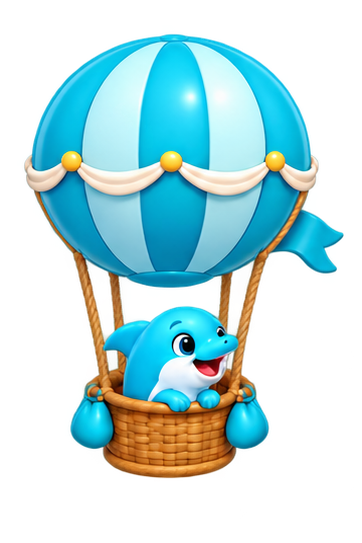
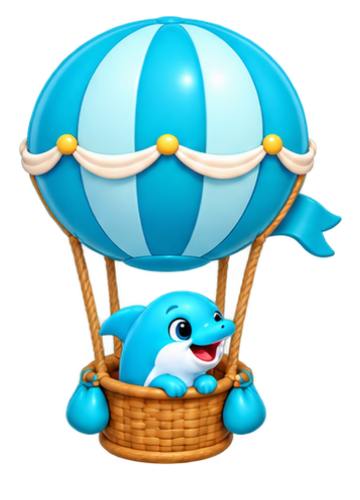
feat(team-competition): can deu 8 khinh khi cau, co khung trai 15%, tang gap doi khung ten va 2.5 lan o bang xep hang

Changed region(s): [[0.0306, 0.03, 0.9472, 0.93], [0.8556, 0.39, 0.9167, 0.42], [0.6722, 0.39, 0.7028, 0.42]]

diff --git a/src/style.css b/src/style.css
@@ -6495,7 +6495,7 @@ input[type="text"], input[type="password"], select, textarea {
     top: clamp(10px, 1.4vh, 18px);
     bottom: clamp(10px, 1.4vh, 18px);
     left: clamp(6px, 0.6vw, 10px);
-    width: clamp(190px, 15.6vw, 245px);
+    width: clamp(160px, 13.2vw, 208px);
     z-index: 10;
     display: flex;
     flex-direction: column;
@@ -6527,17 +6527,18 @@ input[type="text"], input[type="password"], select, textarea {
 #treasure-modal.team-board-fullscreen .team-competition-board--live .team-race-stadium--balloon-festival .team-stadium-title-card {
     flex-shrink: 0;
     display: grid;
-    min-height: clamp(54px, 7vh, 72px);
-    padding: 8px 12px;
+    min-height: clamp(108px, 14vh, 144px);
+    padding: clamp(12px, 1.6vh, 20px) 12px;
     place-items: center;
 }
 #treasure-modal.team-board-fullscreen .team-competition-board--live .team-race-stadium--balloon-festival .team-stadium-title-card h2 {
     margin: 0;
     color: #fff;
-    font-size: clamp(.92rem, 1.2vw, 1.35rem);
-    line-height: 1.15;
+    font-size: clamp(1.15rem, 1.45vw, 1.65rem);
+    font-weight: 900;
+    line-height: 1.25;
     text-align: center;
-    text-shadow: 0 2px 0 #064b85, 0 0 14px rgba(130, 240, 255, .38);
+    text-shadow: 0 2px 0 #064b85, 0 0 16px rgba(130, 240, 255, .45);
     word-break: break-word;
 }
 #treasure-modal.team-board-fullscreen .team-competition-board--live .team-race-stadium--balloon-festival .team-race-clock {
@@ -6571,9 +6572,9 @@ input[type="text"], input[type="password"], select, textarea {
     overflow: hidden;
 }
 #treasure-modal.team-board-fullscreen .team-competition-board--live .team-race-stadium--balloon-festival .team-race-scoreboard p {
-    margin: 0 0 6px;
+    margin: 0 0 8px;
     color: #fff5b8 !important;
-    font-size: clamp(.58rem, .72vw, .78rem) !important;
+    font-size: clamp(.62rem, .78vw, .86rem) !important;
     font-weight: 900;
     letter-spacing: .04em;
     text-align: center;
@@ -6582,51 +6583,68 @@ input[type="text"], input[type="password"], select, textarea {
 #treasure-modal.team-board-fullscreen .team-competition-board--live .team-race-stadium--balloon-festival .team-race-scoreboard ol {
     display: flex;
     flex-direction: column;
-    gap: clamp(3px, .45vh, 6px);
+    gap: clamp(6px, 0.8vh, 10px);
     overflow-y: auto;
     flex: 1;
     min-height: 0;
     margin: 0;
-    padding: 0;
+    padding: 0 4px 0 0;
     list-style: none;
+    scrollbar-width: thin;
+    scrollbar-color: rgba(65, 231, 255, .7) rgba(3, 31, 91, .6);
+}
+#treasure-modal.team-board-fullscreen .team-competition-board--live .team-race-stadium--balloon-festival .team-race-scoreboard ol::-webkit-scrollbar {
+    width: 5px;
+}
+#treasure-modal.team-board-fullscreen .team-competition-board--live .team-race-stadium--balloon-festival .team-race-scoreboard ol::-webkit-scrollbar-track {
+    background: rgba(3, 31, 91, .6);
+    border-radius: 999px;
+}
+#treasure-modal.team-board-fullscreen .team-competition-board--live .team-race-stadium--balloon-festival .team-race-scoreboard ol::-webkit-scrollbar-thumb {
+    background: rgba(65, 231, 255, .7);
+    border-radius: 999px;
 }
 #treasure-modal.team-board-fullscreen .team-race-stadium--balloon-festival .team-race-scoreboard__entry {
     display: grid;
-    grid-template-columns: 20px 1fr auto;
+    grid-template-columns: clamp(28px, 2vw, 36px) 1fr auto;
     align-items: center;
-    gap: 6px;
-    min-height: clamp(28px, 3.1vh, 38px);
-    padding: 3px 8px;
-    border: 1px solid color-mix(in srgb, var(--leaderboard-accent) 72%, white);
-    border-radius: clamp(5px, .6vw, 8px);
+    gap: clamp(6px, 0.7vw, 10px);
+    min-height: clamp(68px, 7.5vh, 92px);
+    padding: clamp(6px, 0.8vh, 10px) clamp(8px, 0.8vw, 12px);
+    border: 1.5px solid color-mix(in srgb, var(--leaderboard-accent) 72%, white);
+    border-radius: clamp(10px, 1.1vw, 16px);
     background: var(--leaderboard-accent);
-    box-shadow: inset 0 1px rgba(255,255,255,.28), 0 3px 7px rgba(0, 12, 46, .2);
+    box-shadow: inset 0 1px rgba(255,255,255,.35), 0 4px 10px rgba(0, 12, 46, .24);
     color: #061d50;
     text-align: left;
 }
 #treasure-modal.team-board-fullscreen .team-race-stadium--balloon-festival .team-race-scoreboard__entry span {
     display: grid;
     place-items: center;
-    width: clamp(18px, 1.4vw, 22px);
-    height: clamp(18px, 1.4vw, 22px);
+    width: clamp(28px, 2vw, 36px);
+    height: clamp(28px, 2vw, 36px);
     border-radius: 50%;
     background: #fff4b0;
     color: #5e3900;
-    font-size: clamp(.5rem, .65vw, .72rem);
+    font-size: clamp(.92rem, 1.15vw, 1.3rem);
     font-weight: 900;
+    box-shadow: 0 2px 5px rgba(0, 0, 0, .2);
 }
 #treasure-modal.team-board-fullscreen .team-race-stadium--balloon-festival .team-race-scoreboard__entry strong {
     overflow: hidden;
     color: #061d50;
-    font-size: clamp(.54rem, .7vw, .76rem);
+    font-size: clamp(.88rem, 1.05vw, 1.2rem);
     font-weight: 950;
     line-height: 1.15;
     text-overflow: ellipsis;
-    white-space: nowrap;
+    display: -webkit-box;
+    -webkit-line-clamp: 2;
+    -webkit-box-orient: vertical;
+    word-break: break-word;
 }
 #treasure-modal.team-board-fullscreen .team-race-stadium--balloon-festival .team-race-scoreboard__entry b {
     color: #061d50;
-    font-size: clamp(.65rem, .85vw, .95rem);
+    font-size: clamp(1.15rem, 1.45vw, 1.65rem);
     font-weight: 900;
     line-height: 1;
 }
@@ -6661,8 +6679,8 @@ input[type="text"], input[type="password"], select, textarea {
     position: absolute;
     top: 0;
     bottom: 0;
-    left: clamp(202px, 16.6vw, 260px);
-    right: clamp(8px, 0.8vw, 16px);
+    left: clamp(172px, 14.1vw, 222px);
+    right: clamp(6px, 0.6vw, 12px);
     overflow: visible;
     z-index: 3;
 }
@@ -6675,6 +6693,8 @@ input[type="text"], input[type="password"], select, textarea {
     height: 100%;
     transform: none;
     z-index: 3;
+    --balloon-w: clamp(120px, 12.5vw, 185px);
+    --balloon-h: calc(var(--balloon-w) * 500 / 360);
 }
 #treasure-modal.team-board-fullscreen .team-race-stadium--balloon-festival .team-stadium-lane__vehicle {
     position: absolute;
@@ -6683,10 +6703,11 @@ input[type="text"], input[type="password"], select, textarea {
     left: 0;
     bottom: calc(4% + var(--balloon-altitude, 0%));
     transform: translateX(-50%);
+    transform-origin: 50% 35%;
     display: block;
-    width: clamp(120px, 12.5vw, 185px);
-    height: auto;
-    aspect-ratio: 362 / 543;
+    width: var(--balloon-w);
+    height: var(--balloon-h);
+    aspect-ratio: 360 / 500;
     object-fit: contain;
     filter: drop-shadow(0 12px 18px rgba(0, 0, 0, .48));
     transition: bottom .85s cubic-bezier(.34, 1.56, .64, 1);
@@ -6696,7 +6717,7 @@ input[type="text"], input[type="password"], select, textarea {
     position: absolute;
     top: auto;
     left: 0;
-    bottom: calc(4% + var(--balloon-altitude, 0%) + clamp(186px, 19.4vw, 286px));
+    bottom: calc(4% + var(--balloon-altitude, 0%) + var(--balloon-h) + 6px);
     transform: translateX(-50%);
     display: inline-flex;
     align-items: center;
@@ -6742,16 +6763,16 @@ input[type="text"], input[type="password"], select, textarea {
     font-weight: 700;
 }
 @keyframes balloon-sway {
-    0% { transform: translateX(-50%) translateY(0) rotate(-1.5deg); }
-    100% { transform: translateX(-50%) translateY(-6px) rotate(1.5deg); }
+    0% { transform: translateX(-50%) rotate(-1.2deg); }
+    100% { transform: translateX(-50%) rotate(1.2deg); }
 }
 
 @media (max-width: 900px) {
     #treasure-modal.team-board-fullscreen .team-competition-board--live .team-race-stadium--balloon-festival .team-board-hero {
-        width: clamp(160px, 20vw, 190px);
+        width: clamp(136px, 17vw, 165px);
     }
     #treasure-modal.team-board-fullscreen .team-race-stadium--balloon-festival .team-stadium-canvas__lanes {
-        left: clamp(170px, 21vw, 200px);
+        left: clamp(146px, 18vw, 178px);
     }
 }
 @media (prefers-reduced-motion: reduce) {
